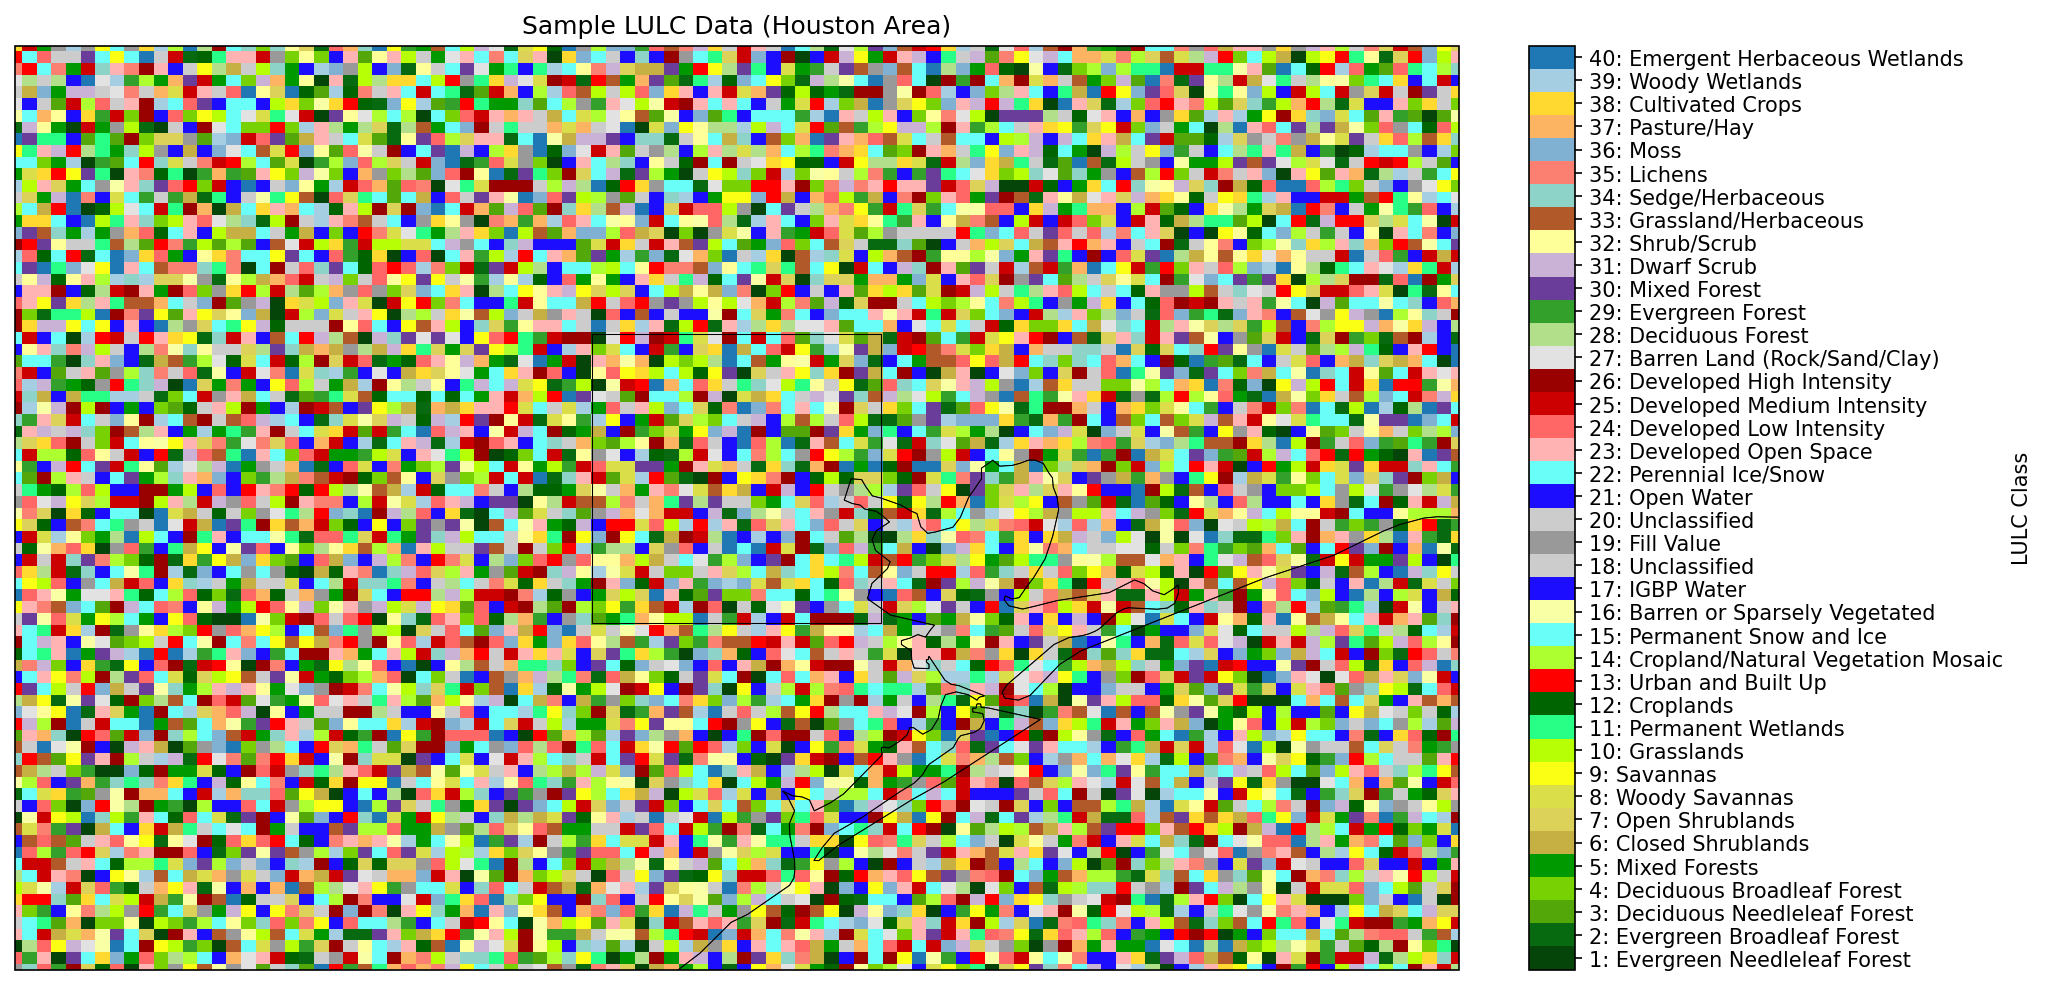
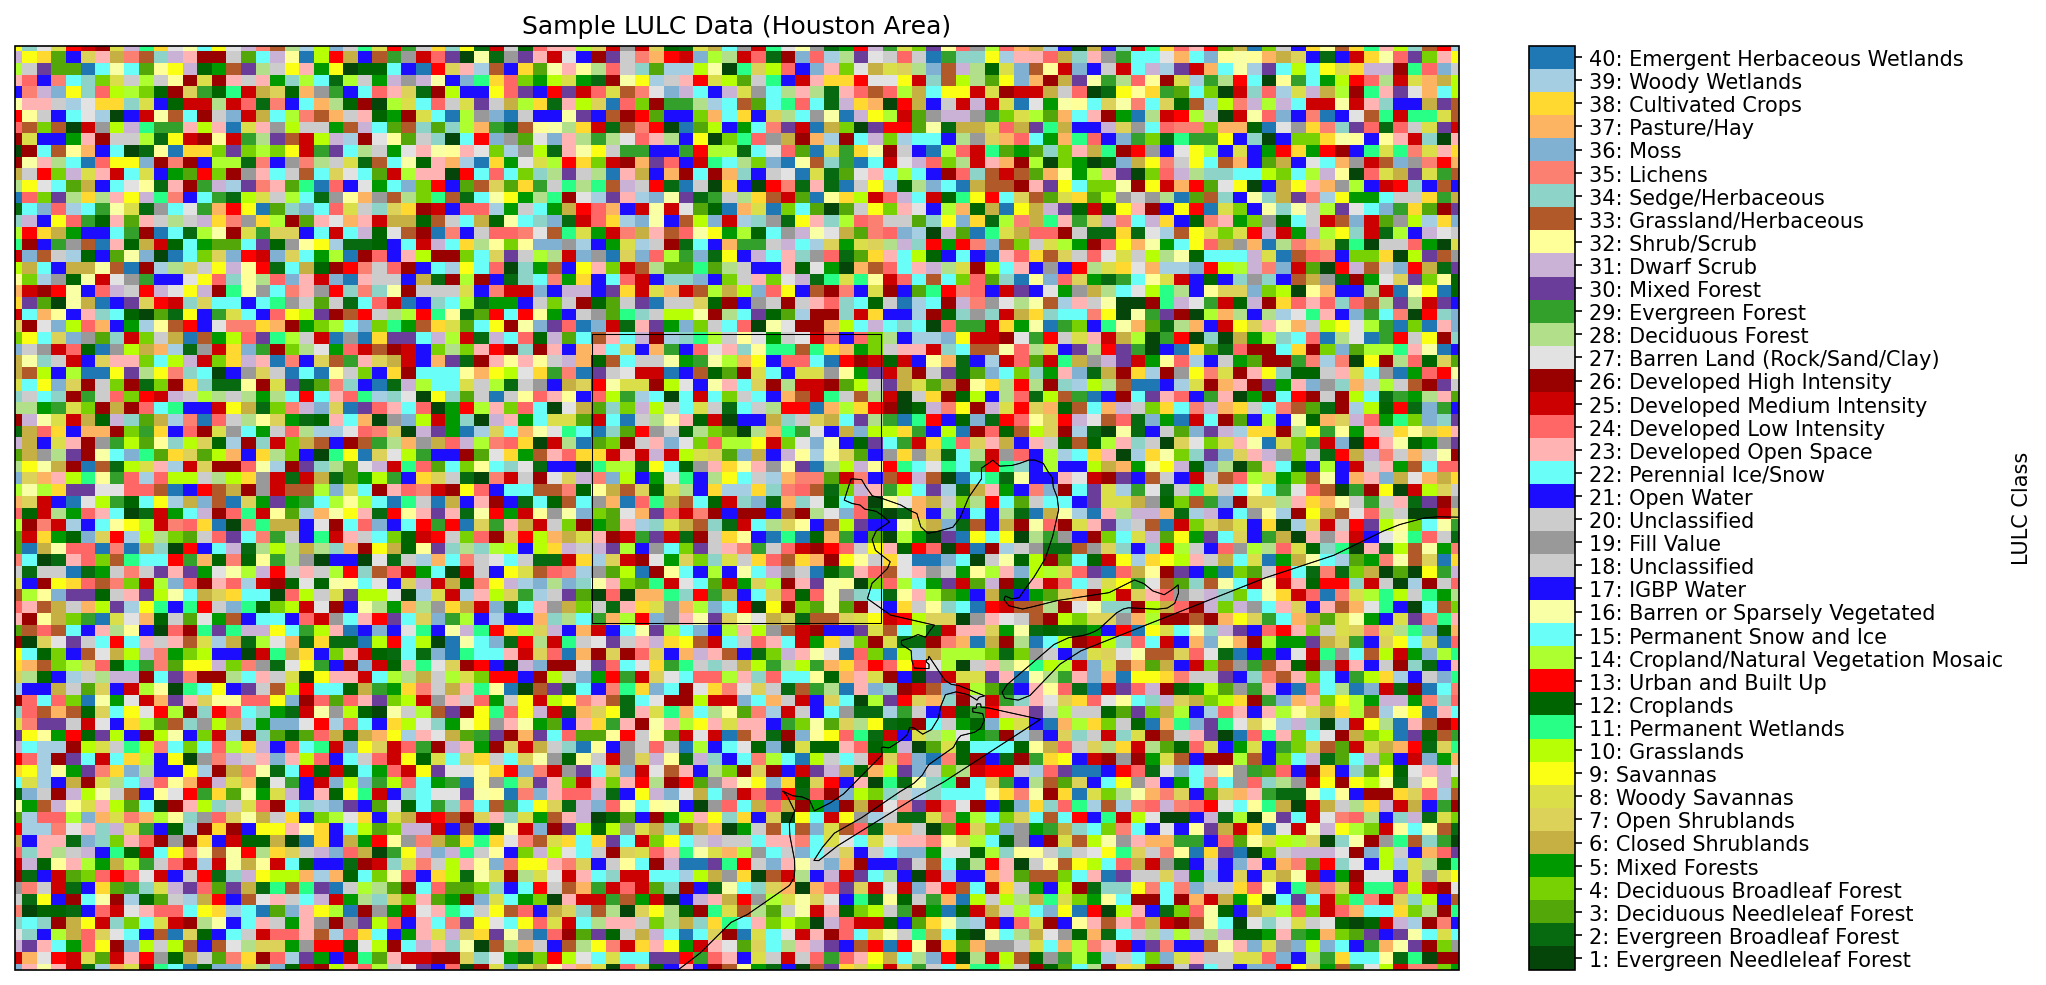
Update README with actual LULC plot and fix colorbar overlapping
- Replaced random sample plot with actual LULC data plot (actual_lulc_data.png)
- Fixed colorbar overlapping in subplot comparisons by:
  - Increasing figure width from 20 to 22 inches
  - Adding proper colorbar positioning with labels
  - Using tight_layout() to prevent overlapping
- Updated contact information with all email addresses:
  - ankurk017@gmail.com
  - ankur.kumar@uah.edu
  - ankur.kumar@nasa.gov
- Updated setup.py and __init__.py with correct email
- Removed create_sample_plot.py (no longer needed)
- Regenerated all plots with fixed colorbar positioning

diff --git a/wrf_nlcd_lulc_converter/plotting.py b/wrf_nlcd_lulc_converter/plotting.py
@@ -97,11 +97,11 @@ def plot_urban_comparison(original_lulc, updated_lulc, longitudes, latitudes,
         dpi (int): DPI for saved image
     """
     # Get colormap and normalization
-    cmap, _, _, vmin, vmax = get_lulc_colormap()
+    cmap, labels, _, vmin, vmax = get_lulc_colormap()
     urban_classes = [21, 22, 23, 24, 25, 26]
     
-    # Create figure with subplots
-    fig, (ax1, ax2) = plt.subplots(1, 2, figsize=(20, 8), 
+    # Create figure with subplots and adjust for colorbar
+    fig, (ax1, ax2) = plt.subplots(1, 2, figsize=(22, 8), 
                                     subplot_kw={'projection': ccrs.PlateCarree()})
     
     # Plot original urban areas
@@ -122,10 +122,17 @@ def plot_urban_comparison(original_lulc, updated_lulc, longitudes, latitudes,
     plot_coast(ax2, houston=True, houston_color='k', houston_linewidth=0.5)
     ax2.set_title("Updated Urban Areas")
     
-    # Add standardized colorbar
-    create_colorbar(ax1, out1)
+    # Add colorbar with proper positioning
+    cbar = plt.colorbar(out1, ax=[ax1, ax2], orientation='vertical', 
+                        fraction=0.046, pad=0.04, ticks=np.arange(1, 41))
+    cbar.set_label('LULC Class')
+    cbar.set_ticks(np.arange(1, 41))
+    cbar.set_ticklabels([f"{i+1}: {labels[i]}" for i in range(40)])
     
     plt.suptitle(title)
+    
+    # Adjust layout to prevent overlapping
+    plt.tight_layout()
     
     # Save plot if path provided
     if save_path:

diff --git a/setup.py b/setup.py
@@ -7,7 +7,7 @@ setup(
     name="wrf-nlcd-lulc-converter",
     version="0.1.0",
     author="Ankur Kumar",
-    author_email="ankur.kumar@example.com",
+    author_email="ankurk017@gmail.com",
     description="A Python package for converting NLCD land use data and updating WRF geo_em files",
     long_description=long_description,
     long_description_content_type="text/markdown",

diff --git a/wrf_nlcd_lulc_converter/__init__.py b/wrf_nlcd_lulc_converter/__init__.py
@@ -7,7 +7,7 @@ and updating WRF (Weather Research and Forecasting) geo_em files with new land u
 
 __version__ = "0.1.0"
 __author__ = "Ankur Kumar"
-__email__ = "ankur.kumar@example.com"
+__email__ = "ankurk017@gmail.com"
 
 from .processor import NLCDProcessor
 from .mapping import LULCMapping

diff --git a/README.md b/README.md
@@ -10,6 +10,9 @@ A Python package for converting National Land Cover Database (NLCD) land use dat
 
 This package is maintained by [Ankur Kumar](https://github.com/ankurk017) and is available at: https://github.com/ankurk017/wrf_nlcd_lulc_converter
 
+**Contact Information:**
+- Email: ankurk017@gmail.com, ankur.kumar@uah.edu, ankur.kumar@nasa.gov
+
 ## Sample Output
 
 ![Sample LULC Plot](sample_lulc_plot.png)
@@ -248,6 +251,7 @@ If you use this package in your research, please cite:
   title={WRF NLCD LULC Converter},
   author={Ankur Kumar},
   year={2024},
-  url={https://github.com/ankurk017/wrf-nlcd-lulc-converter}
+  url={https://github.com/ankurk017/wrf-nlcd-lulc-converter},
+  note={Contact: ankurk017@gmail.com, ankur.kumar@uah.edu, ankur.kumar@nasa.gov}
 }
 ```
